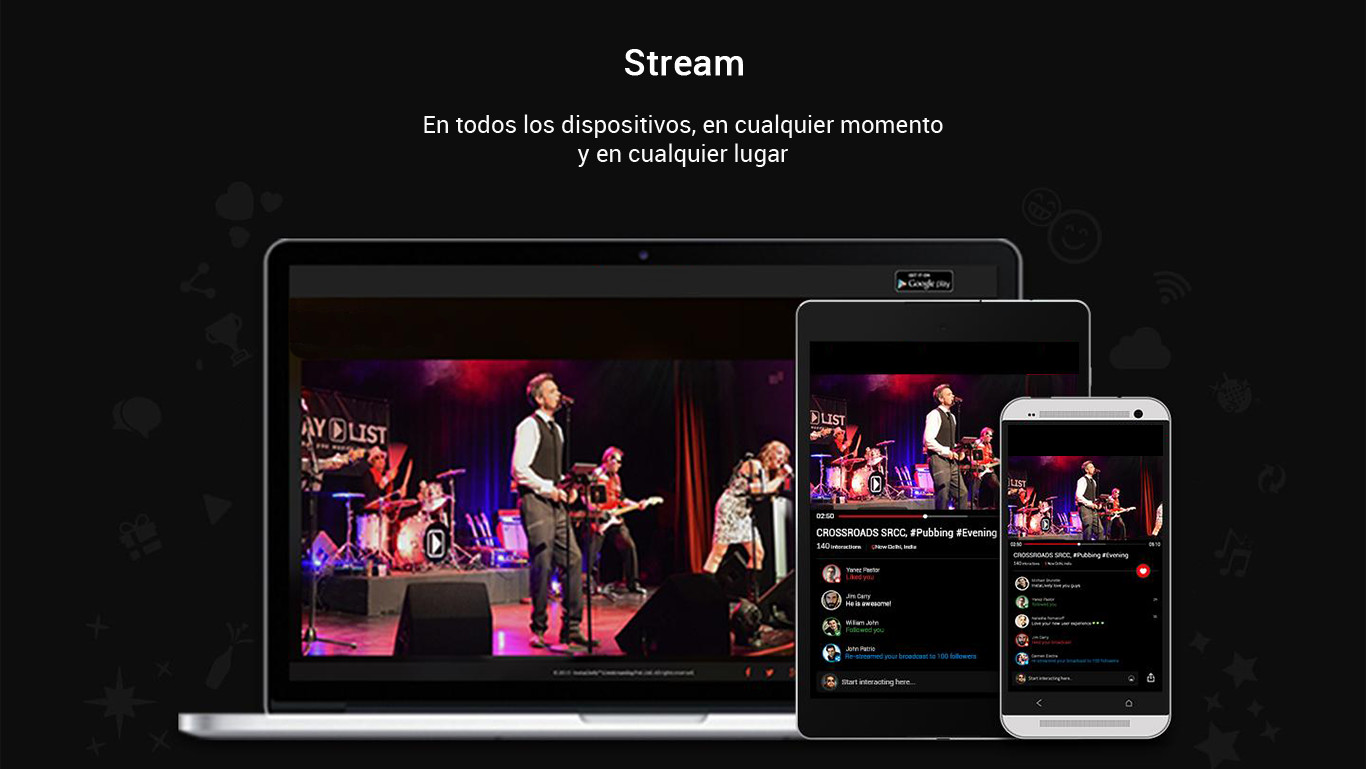
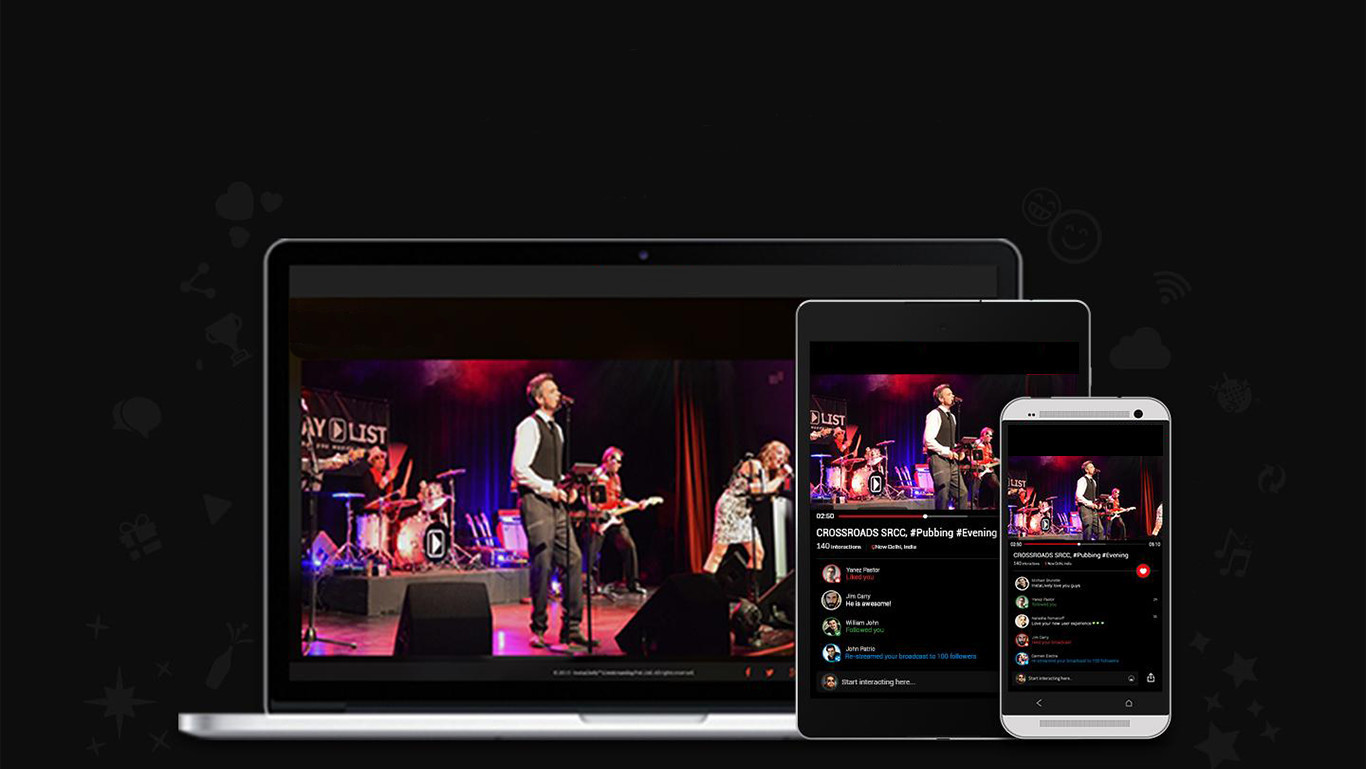
primera version

Changed region(s): [[0.3075, 0.156, 0.7072, 0.2185], [0.4612, 0.0624, 0.5534, 0.1248], [0.6457, 0.3433, 0.7072, 0.3745]]

diff --git a/src/app/components/header/header.component.html b/src/app/components/header/header.component.html
@@ -1,16 +1,14 @@
 <nav id="mainNav" class="navbar navbar-default navbar-fixed-top "data-spy="affix" data-offset-top="100">
        <div class="container">
-           <!-- Brand and toggle get grouped for better mobile display -->
            <div class="navbar-header">
                <button type="button" class="navbar-toggle collapsed" data-toggle="collapse" data-target="#bs-example-navbar-collapse-1">
                    <span class="sr-only">Toggle navigation</span> Menu <i class="fa fa-bars"></i>
                </button>
                <a class="navbar-brand page-scroll" href="#page-top">
-                  <img alt="Brand" src="../../../assets/img/logo.png">
+                  <img alt="brand" src="../../../assets/img/logo.png">
                </a>
            </div>
 
-           <!-- Collect the nav links, forms, and other content for toggling -->
            <div class="collapse navbar-collapse" id="bs-example-navbar-collapse-1">
                <ul class="nav navbar-nav navbar-right">
                    <li>
@@ -27,9 +25,7 @@
                    </li>
                </ul>
            </div>
-           <!-- /.navbar-collapse -->
        </div>
-       <!-- /.container-fluid -->
    </nav>
 
    <header>
@@ -37,16 +33,14 @@
            <div class="row">
 
                <div class="col-sm-12 imagen-header">
-                 <div class="col-sm-7">
-                     <div class="header-content">
+                 <div class="col-sm-6 col-md-offset-3 text-center header-content">
                          <div class="header-content-inner">
                              <h1>La mejor experiencia del streaming</h1>
                              <a href="#about" class="btn btn-outline btn-xl page-scroll">Conocenos</a>
                          </div>
-                     </div>
                  </div>
                  <div class="screen">
-                     <img src="assets/img/header-img.jpg" class="img-responsive" alt="">
+                     <!-- <img src="assets/img/header-img.jpg" class="img-responsive" alt=""> -->
                  </div>
 
                </div>

diff --git a/src/styles.css b/src/styles.css
@@ -60,6 +60,10 @@ p {
   font-weight: 200;
   letter-spacing: 1px;
 }
+.navbar-brand>img{
+  width: 70%;
+  max-width: 170px;
+}
 .navbar-default .navbar-header .navbar-toggle {
   font-size: 12px;
   color: #222222;
@@ -99,11 +103,18 @@ p {
 .imagen-header{
   margin: 0;
   padding: 0;
+  position: relative;
 }
 
 .header-content{
   position: absolute;
-  top: 300px;
+	top: 0;
+	bottom: 0;
+	left: 0;
+	right: 0;
+	width: 80%;
+	height: 30%;
+	margin: auto;
 }
 .header-content-inner > h1 {
   font-family: 'Roboto', serif;
@@ -137,7 +148,6 @@ p {
 }
 .header-content-inner > a{
   width: 150px;
-  margin-right: 1em;
 }
 .header-content-inner > .mas{
   width: 150px;
@@ -148,7 +158,6 @@ p {
 
 
 .features{
-
 background: grey;
 width: 100%;
 height: 100vh;
@@ -168,6 +177,17 @@ background-size: cover;
   display: block;
   margin: 25px auto;
 }
+.stream{
+  margin-top: 2em;
+}
+.stream h4{
+  color: white;
+  font-size: 1.5em;
+
+}
+.stream h2{
+  color: white;
+}
 .soluciones li{
   list-style-type: none;
   padding: 4em 2em;
@@ -181,7 +201,18 @@ background-size: cover;
   width: 100%;
   height: 100vh;
 }
-
+.screen{
+  background: grey;
+  width: 100%;
+  height: 100vh;
+  background-image: url(./assets/img/header-img.jpg);
+  background-repeat: no-repeat;
+  /*background-attachment: fixed;*/
+  -webkit-background-size: cover;
+  -moz-background-size: cover;
+  -o-background-size: cover;
+  background-size: cover;
+}
 form {
   width: 100%;
   margin: 10% auto;
@@ -285,5 +316,17 @@ textarea {
   .navbar-default.affix .nav > li > a:hover,
   .navbar-default.affix .nav > li > a:focus:hover {
     color: grey;
+  }
+}
+@media (max-width: 480px) {
+  .header-content{
+    width: 100%;
+  }
+  .header-content h1{
+    font-size: 28px;
+  }
+
+  .about img{
+    width: 200px;
   }
 }

diff --git a/src/app/components/stream/stream.component.html b/src/app/components/stream/stream.component.html
@@ -1,8 +1,9 @@
 <section id="dispositivos" class="features">
     <div class="container full-image">
         <div class="row ">
-          <div class="col-md-12 stream">
-          
+          <div class="col-md-12 stream text-center">
+            <h2>STREAM</h2>
+            <h4>En todos los disostitivos, en cualquier momento y en cualquier lugar</h4>
           </div>
         </div>
     </div>

diff --git a/src/app/components/about/about.component.html b/src/app/components/about/about.component.html
@@ -14,5 +14,4 @@
     </div>
 </section>
 <div data-aos="fade-up-right">
-  <p>Lorem ipsum dolor sit amet, consectetur adipisicing elit. Perferendis veniam placeat magni, repellendus in maxime culpa id! Aliquam ratione saepe autem molestiae quas nobis et pariatur odit a, sed nemo.</p>
 </div>
